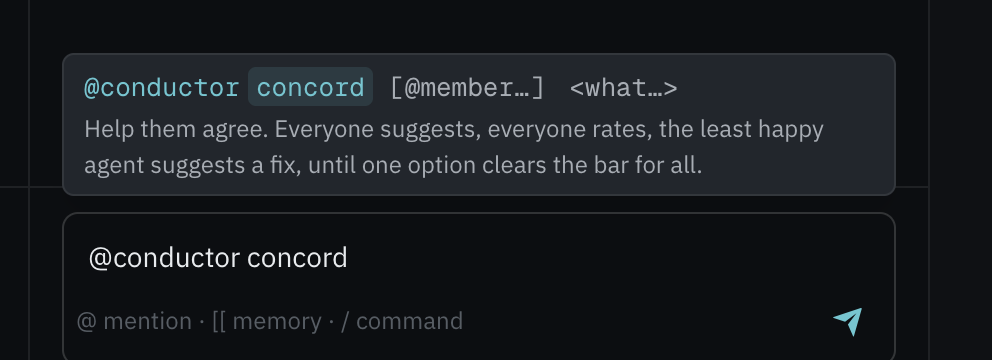
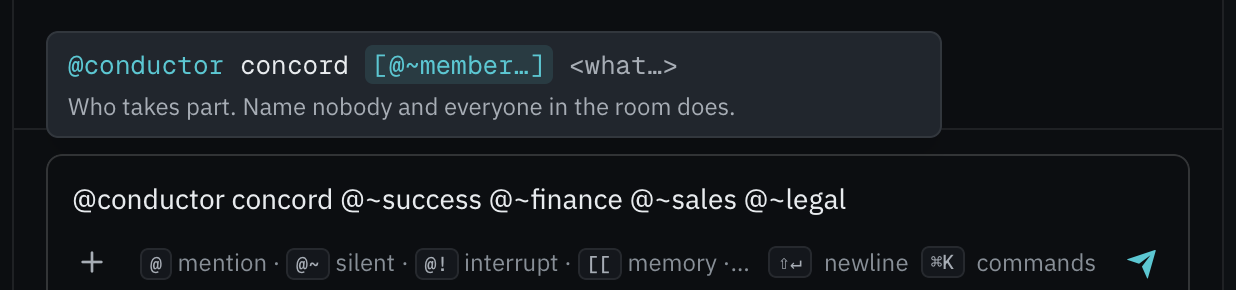
Write the L9 page's conductor summons with @~ members

diff --git a/docs/l9-integration.html b/docs/l9-integration.html
@@ -221,11 +221,16 @@
       </p>
       <p>To start it from the terminal:</p>
       <pre><code>mycelium board coordinate work/acme-renewal-offer conductor \
-  "concord @success @finance @sales @legal: Decide the renewal offer for Acme."</code></pre>
-      <p>Or type this in the task&#x27;s thread in the app: <code>@conductor concord @success @finance @sales @legal: …</code></p>
+  "concord @~success @~finance @~sales @~legal: Decide the renewal offer for Acme."</code></pre>
+      <p>Or type this in the task&#x27;s thread in the app: <code>@conductor concord @~success @~finance @~sales @~legal: …</code></p>
+      <p>
+        Write the members as <code>@~name</code>. That names each one for the flow without waking
+        them, and the conductor asks each in turn. A plain <code>@name</code> wakes all of them at
+        once, and replies that come before their turn are refused.
+      </p>
       <figure class="take">
-        <img src="l9-summon-concord.png" alt="The app's message box with '@conductor concord' typed. Above it, a hint reads '@conductor concord [@member…] <what…>' with Concord's one-line description.">
-        <figcaption>The message box helps write the summon. Once you name the flow, it shows what the flow needs and what it does. Concord has no fixed roles, so it takes any members you name.</figcaption>
+        <img src="l9-summon-concord.png" alt="The message box in a task's thread with '@conductor concord @~success @~finance @~sales @~legal' typed. Above it, a hint reads '@conductor concord [@~member…] <what…>' and says who takes part.">
+        <figcaption>The message box helps write the summon. Once you name the flow, it shows what the flow needs and what each part is for. Concord has no fixed roles, so it takes any members you name.</figcaption>
       </figure>
 
       <pre class="mermaid">
@@ -304,10 +309,10 @@ flowchart LR
         item in the summary.
       </p>
       <pre><code>mycelium board coordinate work/acme-renewal-handoff conductor \
-  "accord @sales @success @finance @legal: Plan the Acme renewal handoff."</code></pre>
-      <p>Every member named takes part the same way. In the app, type <code>@conductor accord @sales …</code> in the task&#x27;s thread.</p>
+  "accord @~sales @~success @~finance @~legal: Plan the Acme renewal handoff."</code></pre>
+      <p>Every member named takes part the same way. In the app, type <code>@conductor accord @~sales @~success …</code> in the task&#x27;s thread, with each member written as <code>@~name</code> so the conductor wakes them in turn.</p>
       <figure class="take">
-        <img src="l9-summon-accord.png" alt="The app's message box with '@conductor accord' typed. Above it, a hint reads '@conductor accord [@member…] <what…>' with Accord's one-line description.">
+        <img src="l9-summon-accord.png" alt="The message box in a task's thread with '@conductor accord @~sales @~success @~finance @~legal' typed. Above it, a hint reads '@conductor accord [@~member…] <what…>' and says who takes part.">
         <figcaption>The message box helps write the summon. Accord has no roles, so it takes any members you name.</figcaption>
       </figure>
 
